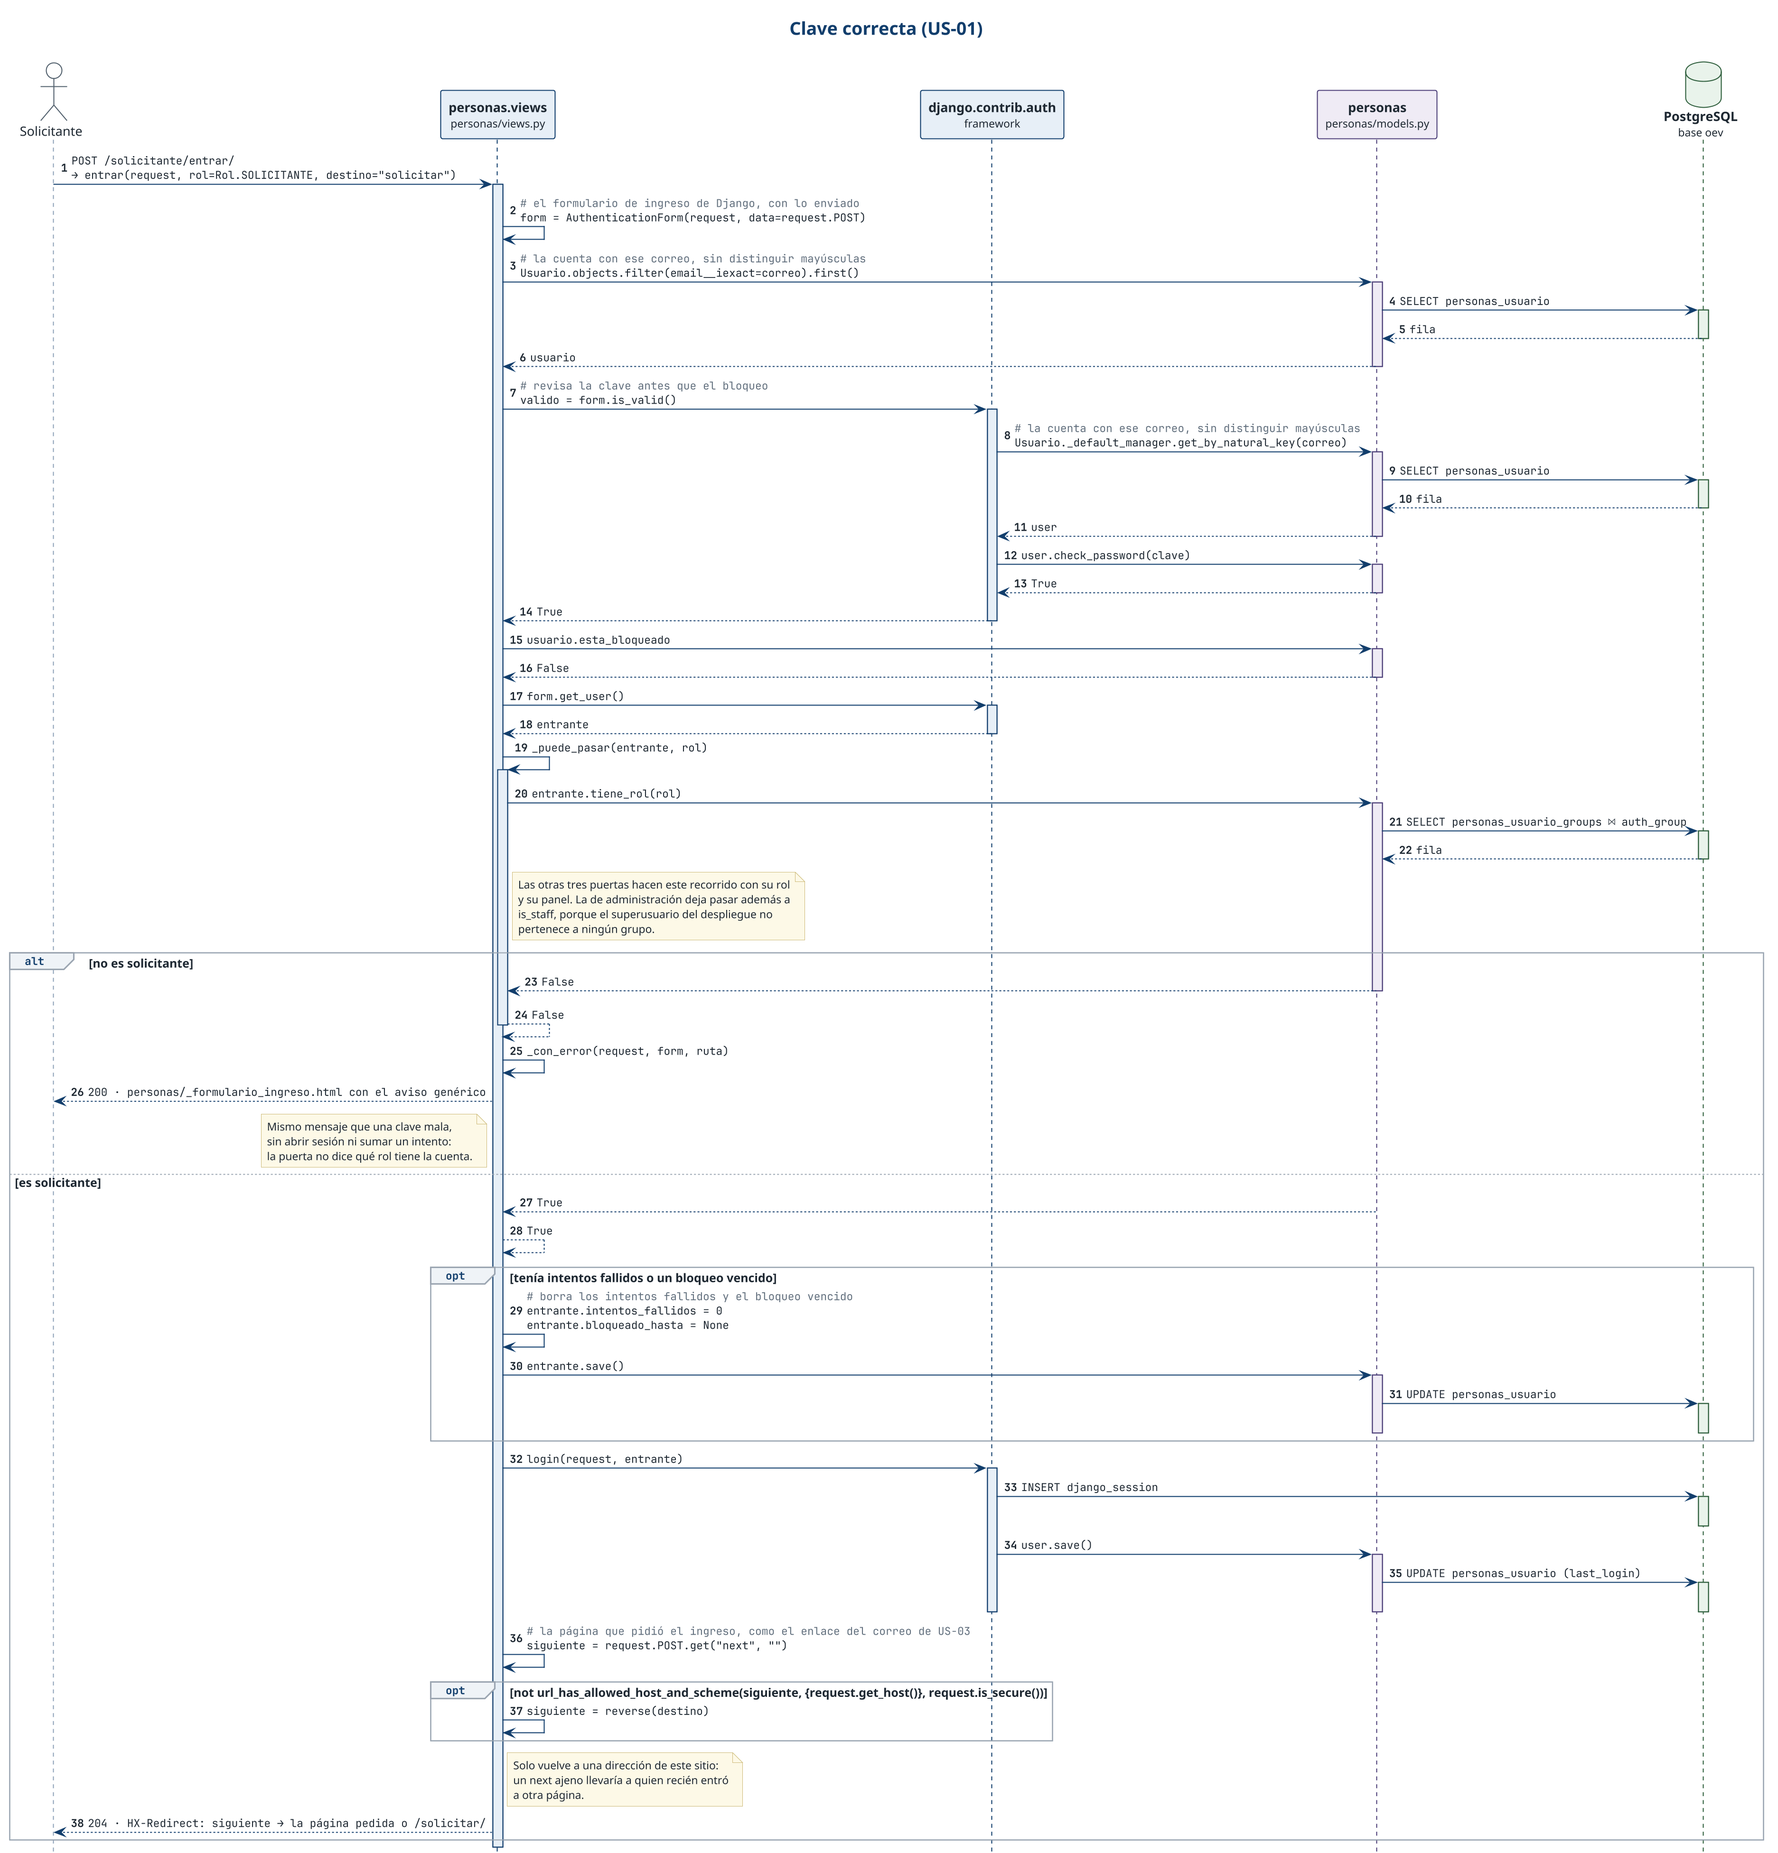
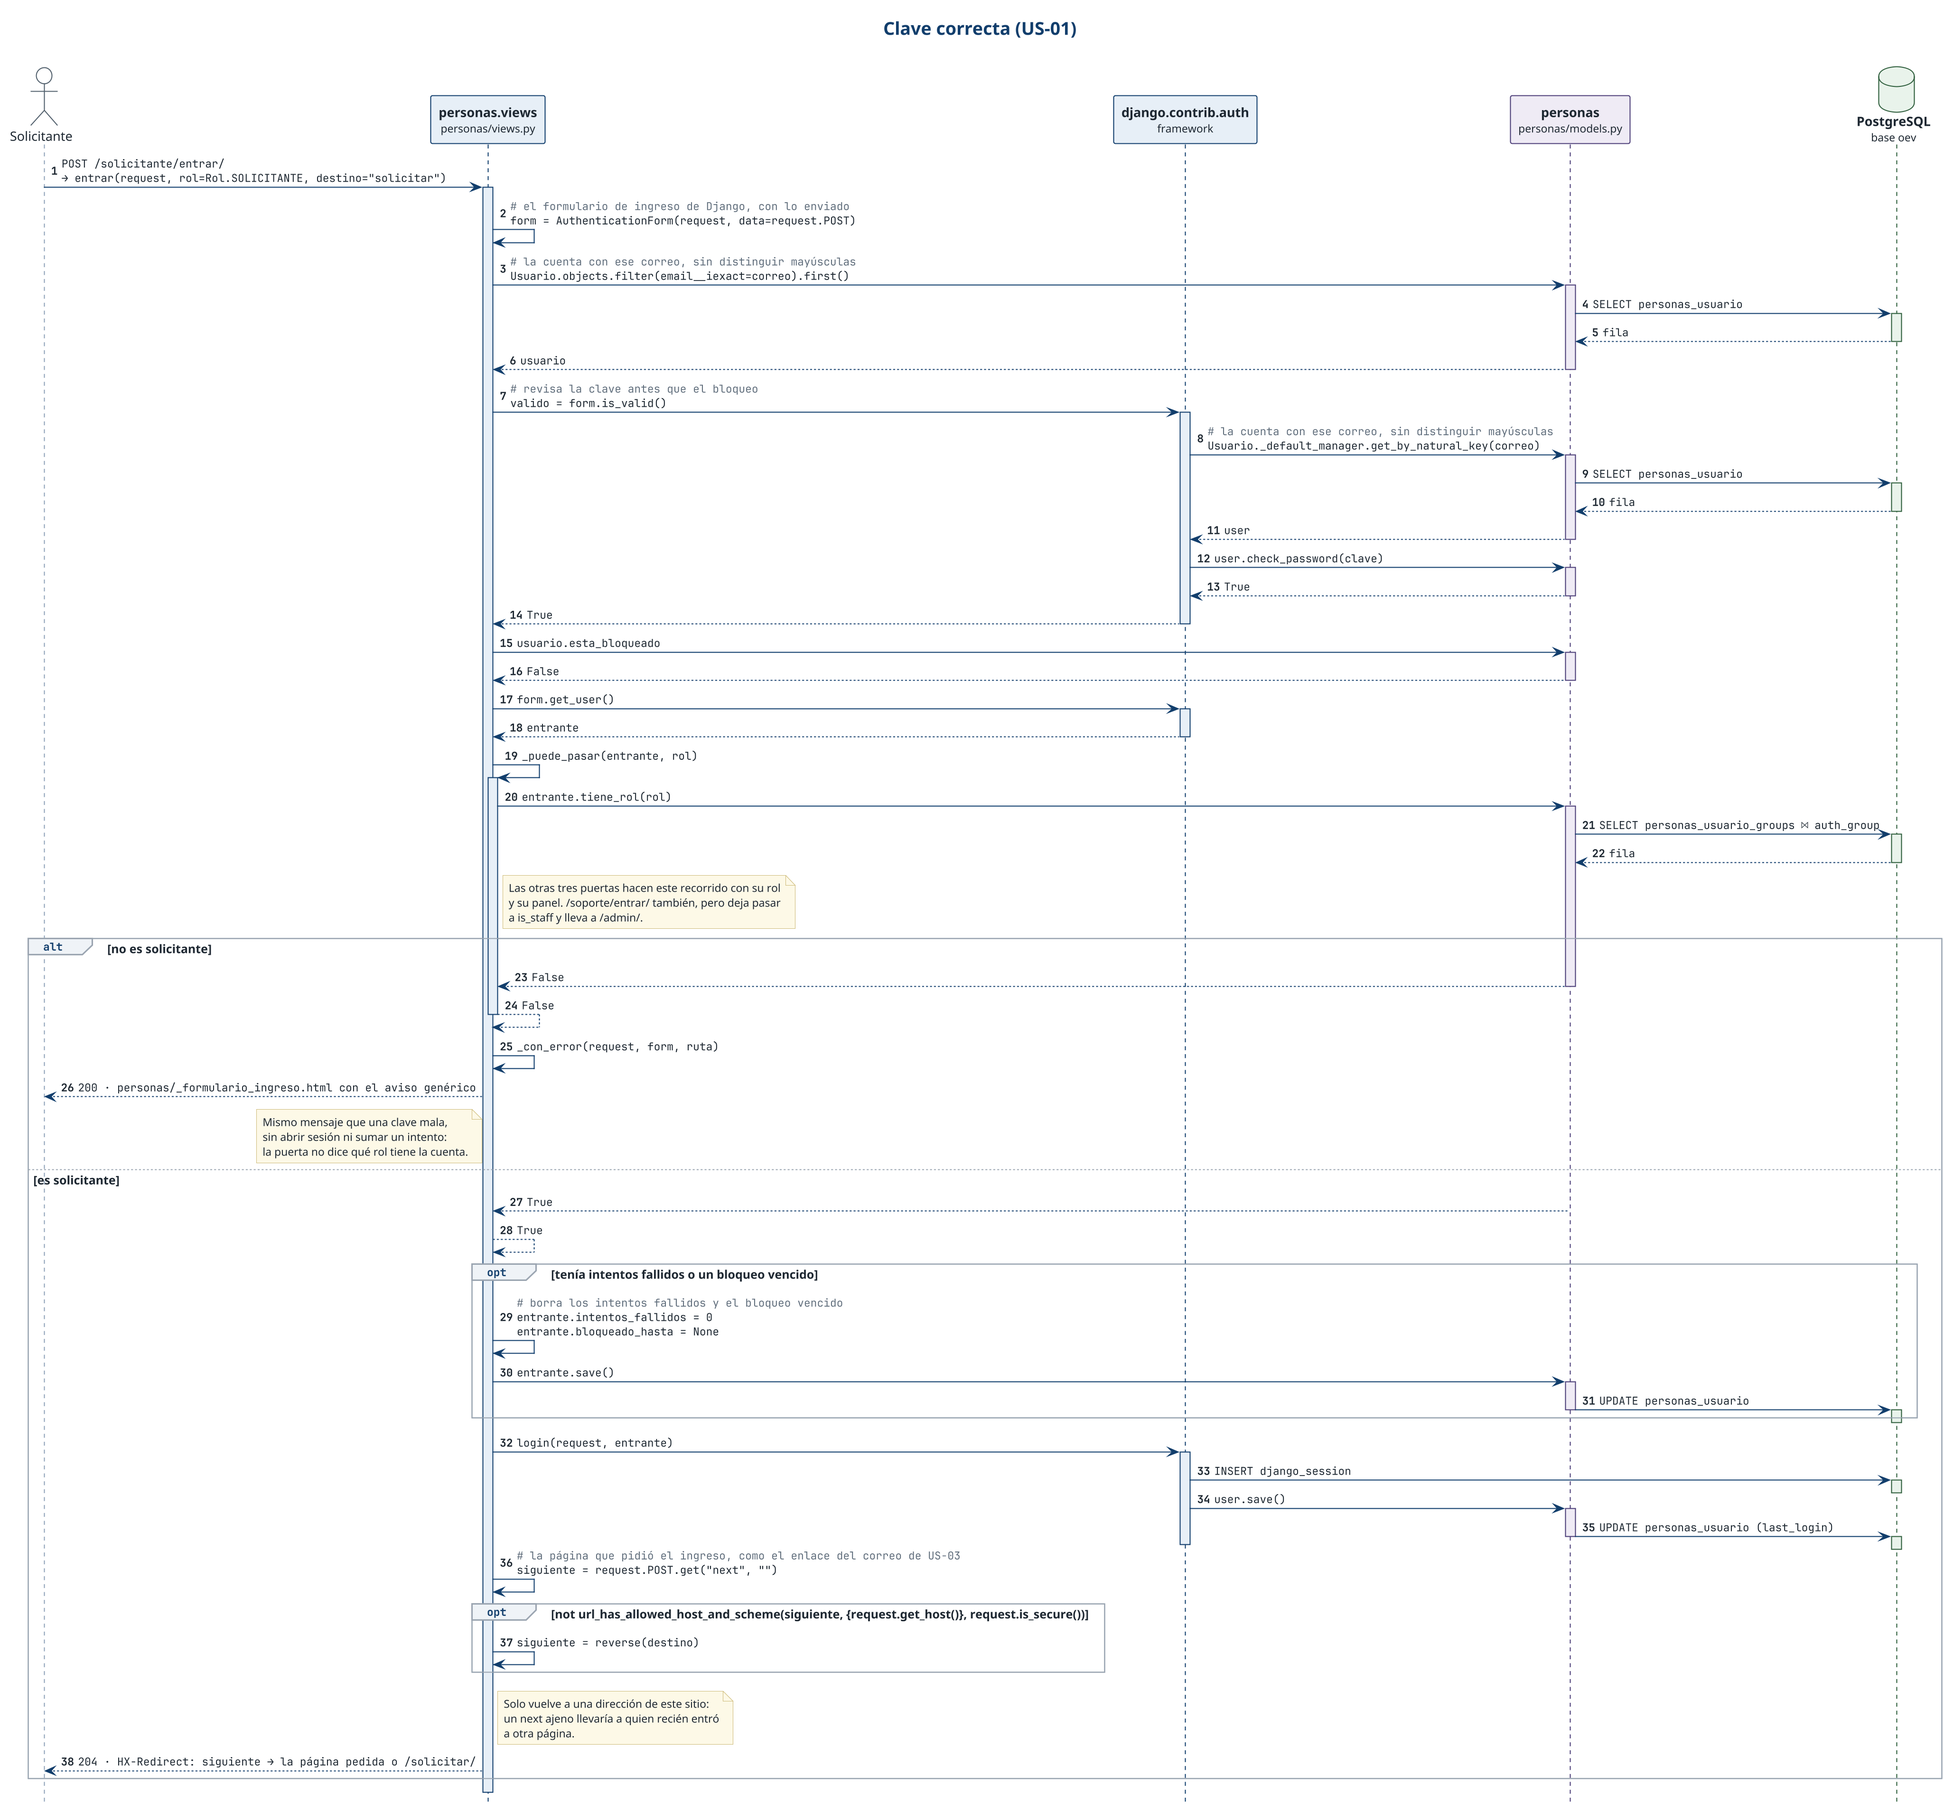
feat(personas): el panel lo abre solo el rol, y crear_administrador (US-08 AC11)

diff --git a/src/personas/management/commands/crear_administrador.py b/src/personas/management/commands/crear_administrador.py
@@ -1,0 +1,56 @@
+import secrets
+
+from django.conf import settings
+from django.contrib.auth.models import Group
+from django.core.exceptions import ValidationError
+from django.core.management.base import BaseCommand, CommandError
+from django.core.validators import validate_email
+from django.db import transaction
+from django.urls import reverse
+
+from personas.models import Rol, Usuario
+from personas.services import enviar_acceso, foto_de_cuenta, registrar_cambios_de_cuenta
+
+
+class Command(BaseCommand):
+    help = (
+        "US-08 AC11: deja la cuenta de soporte de la OEV como superusuario con el rol de "
+        "administrador. Si no existe, la crea y le manda el correo para crear la contraseña. "
+        "Se puede correr más de una vez."
+    )
+
+    def add_arguments(self, parser):
+        parser.add_argument("correo")
+
+    def handle(self, *args, correo, **options):
+        correo = correo.strip().lower()
+        try:
+            validate_email(correo)
+        except ValidationError:
+            raise CommandError(f"«{correo}» no es un correo válido.")
+
+        with transaction.atomic():
+            usuario = Usuario.objects.filter(email__iexact=correo).first()
+            nueva = usuario is None
+            antes = foto_de_cuenta(None if nueva else usuario.pk)
+            if nueva:
+                # Como en la pestaña Usuarios: Django no manda el enlace de /clave/
+                # a una cuenta sin contraseña usable.
+                usuario = Usuario(email=correo)
+                usuario.set_password(secrets.token_urlsafe(32))
+            usuario.is_active = usuario.is_staff = usuario.is_superuser = True
+            usuario.save()
+            usuario.groups.add(Group.objects.get(name=Rol.ADMINISTRADOR))
+            cambio = foto_de_cuenta(usuario.pk) != antes
+            registrar_cambios_de_cuenta(usuario, antes, quien=None)
+
+        if not nueva:
+            estado = "ahora es" if cambio else "ya era"
+            self.stdout.write(f"{correo} {estado} superusuario con el rol de administrador. Su contraseña no cambió.")
+        elif enviar_acceso(usuario):
+            self.stdout.write(f"Cuenta creada: {correo}. Le llegará un correo para crear su contraseña.")
+        else:
+            self.stdout.write(self.style.WARNING(
+                f"Cuenta creada: {correo}, pero el correo no salió. Puede crear su contraseña en "
+                f"{settings.URL_BASE}{reverse('password_reset')}."
+            ))

diff --git a/src/uso/tests/test_historial_sanciones.py b/src/uso/tests/test_historial_sanciones.py
@@ -74,7 +74,9 @@ def beto(informatica):
 
 @pytest.fixture
 def administrador():
-    return Usuario.objects.create_user(email="admin@uach.cl", password="x", is_staff=True)
+    usuario = Usuario.objects.create_user(email="admin@uach.cl", password="x", is_staff=True)
+    usuario.groups.add(Group.objects.get(name=Rol.ADMINISTRADOR))
+    return usuario
 
 
 @pytest.fixture
@@ -213,21 +215,21 @@ def test_quien_no_pide_ni_fue_sancionado_no_aparece(client, administrador, ana):
 
 
 def test_el_numero_de_consultas_es_fijo(client, administrador, informatica, civil, bloque, django_assert_num_queries):
-    """Sesión, usuario, el área del filtro, el COUNT del paginador, Parametros,
-    la página entera (conteos, sanción y áreas como subconsultas) y las
-    opciones del filtro de área. Ni una más por fila."""
+    """Sesión, usuario, su rol, el área del filtro, el COUNT del paginador,
+    Parametros, la página entera (conteos, sanción y áreas como subconsultas) y
+    las opciones del filtro de área. Ni una más por fila."""
     entrar(client, administrador)
     Parametros.cargar()  # la primera vez la crea, y eso no es del listado
     for i in range(3):
         persona = solicitante(f"a{i}@uach.cl", informatica, civil)
         checkout(persona, informatica, date(2026, 10, 1 + i), bloque, noes=["paredes"])
-    with django_assert_num_queries(7):
+    with django_assert_num_queries(8):
         client.get(LISTADO, {"area": informatica.pk})
     for i in range(20):
         persona = solicitante(f"b{i}@uach.cl", informatica)
         Sancion.objects.create(usuario=persona, motivo="x", inicio=HOY, termino=HOY)
         checkout(persona, informatica, date(2026, 9, 1 + i), bloque, noes=["puerta", "basura"])
-    with django_assert_num_queries(7):
+    with django_assert_num_queries(8):
         client.get(LISTADO, {"area": informatica.pk})
 
 

diff --git a/src/oev/urls.py b/src/oev/urls.py
@@ -73,6 +73,15 @@ urlpatterns = [
          "titulo": "Ingreso del personal de apoyo", "puerta": "apoyo", "nombre": "Personal de apoyo"},
         name="login_apoyo",
     ),
+    # US-08 AC11: puerta de la cuenta técnica, que no tiene rol. Lleva a /admin/
+    # con el mismo bloqueo por intentos.
+    path(
+        "soporte/entrar/",
+        views.entrar,
+        {"ruta": "login_soporte", "rol": None, "destino": "admin:index",
+         "titulo": "Ingreso de soporte técnico", "puerta": "gestion", "nombre": "Soporte técnico"},
+        name="login_soporte",
+    ),
     path("apoyo/", uso.bloques, name="panel_apoyo"),
     path("apoyo/checkout/<str:codigo>/", checkout.checkout, name="checkout_apoyo"),
     path("apoyo/checkout/<str:codigo>/editar/", checkout.editar_checkout, name="editar_checkout"),
@@ -99,8 +108,8 @@ urlpatterns = [
     # el nombre son los de US-10, para no romper enlaces.
     path("configuracion/sanciones/", uso.sanciones, name="panel_sanciones"),
     path("configuracion/sanciones/<int:usuario_id>/", uso.sanciones_de, name="sanciones_de"),
-    # El formulario de ingreso del admin no tiene el bloqueo por intentos: se
-    # entra por la puerta de gestión, que acepta `is_staff` y vuelve por `next`.
-    path("admin/login/", RedirectView.as_view(pattern_name="login_gestion", query_string=True)),
+    # El formulario de ingreso del admin no bloquea por intentos. Se entra por la
+    # puerta de soporte, que vuelve por `next`.
+    path("admin/login/", RedirectView.as_view(pattern_name="login_soporte", query_string=True)),
     path("admin/", admin.site.urls),
 ]

diff --git a/src/personas/views.py b/src/personas/views.py
@@ -33,16 +33,17 @@ def destino_tras_login(usuario):
     formulario de US-02.
 
     Los roles ya son grupos de Django (US-08 AC6), así que alguien puede tener
-    varios: el orden de abajo es la prioridad, no una clasificación. `is_staff`
-    sigue contando como administrador porque el superusuario que crea el
-    despliegue no pertenece a ningún grupo.
+    varios: el orden de abajo es la prioridad, no una clasificación. Sin rol,
+    la cuenta técnica (`is_staff`) va a /admin/ (AC11).
     """
-    if usuario.is_staff or usuario.tiene_rol(Rol.ADMINISTRADOR):
+    if usuario.tiene_rol(Rol.ADMINISTRADOR):
         return reverse("panel_bloques")
     if usuario.tiene_rol(Rol.VALIDADOR):
         return reverse("panel_validador")
     if usuario.tiene_rol(Rol.APOYO):
         return reverse("panel_apoyo")
+    if usuario.is_staff:
+        return reverse("admin:index")
     return reverse("solicitar")
 
 
@@ -77,13 +78,9 @@ def _registrar_fallo(usuario):
 
 
 def _puede_pasar(usuario, rol):
-    """Quién cruza esta puerta.
-
-    En la de administración vale también `is_staff`, porque el superusuario del
-    despliegue no pertenece a ningún grupo y quedaría afuera de su propia puerta.
-    """
-    if rol == Rol.ADMINISTRADOR and usuario.is_staff:
-        return True
+    """Quién cruza esta puerta. La de soporte (`rol=None`) deja pasar a `is_staff` (AC11)."""
+    if rol is None:
+        return usuario.is_staff
     return usuario.tiene_rol(rol)
 
 

diff --git a/src/personas/tests/test_sanciones.py b/src/personas/tests/test_sanciones.py
@@ -4,13 +4,14 @@ from unittest import mock
 from zoneinfo import ZoneInfo
 
 import pytest
+from django.contrib.auth.models import Group
 from django.core.exceptions import ValidationError
 from django.db import IntegrityError, transaction
 from django.urls import reverse
 from django.utils import timezone
 
 from personas import services
-from personas.models import Sancion, Usuario
+from personas.models import Rol, Sancion, Usuario
 
 pytestmark = pytest.mark.django_db
 
@@ -137,7 +138,9 @@ def superusuario():
 
 @pytest.fixture
 def administrador():
-    return Usuario.objects.create_user(email="admin@uach.cl", password="x", is_staff=True)
+    usuario = Usuario.objects.create_user(email="admin@uach.cl", password="x", is_staff=True)
+    usuario.groups.add(Group.objects.get(name=Rol.ADMINISTRADOR))
+    return usuario
 
 
 def test_superusuario_crea_sancion_y_queda_quien(client, superusuario, persona, hoy):

diff --git a/src/solicitudes/views.py b/src/solicitudes/views.py
@@ -58,7 +58,7 @@ def es_validador(usuario):
 
 def puede_validar(usuario):
     """Decisión del 04/10: el administrador también valida."""
-    return usuario.is_authenticated and (usuario.is_staff or usuario.tiene_rol(Rol.VALIDADOR))
+    return usuario.is_authenticated and (usuario.es_administrador or usuario.tiene_rol(Rol.VALIDADOR))
 
 
 def _datos_validacion():
@@ -104,7 +104,7 @@ def _envoltorio_validacion(usuario):
     """El administrador ve el historial dentro de su pestaña Validación; el
     validador, con el encabezado de su panel. Con los dos roles manda el de
     administrador, como en destino_tras_login."""
-    if usuario.is_staff:
+    if usuario.es_administrador:
         return {"envoltorio": "panel.html", "pestana": "validacion", "panel": reverse("panel_validacion")}
     return {"envoltorio": "solicitudes/_base_validador.html", "panel": reverse("panel_validador")}
 

diff --git a/src/agenda/tests/test_vista_semanal.py b/src/agenda/tests/test_vista_semanal.py
@@ -4,10 +4,12 @@ from datetime import date
 from unittest import mock
 
 from django.contrib.auth import get_user_model
+from django.contrib.auth.models import Group
 from django.test import TestCase
 from django.urls import reverse
 
 from agenda.models import Bloque, Bloqueo, Dia
+from personas.models import Rol
 
 
 class VistaSemanal(TestCase):
@@ -15,6 +17,7 @@ class VistaSemanal(TestCase):
         admin = get_user_model().objects.create_user(
             email="admin@uach.cl", password="clave-de-prueba", is_staff=True
         )
+        admin.groups.add(Group.objects.get(name=Rol.ADMINISTRADOR))
         self.client.force_login(admin)
         # La migración ya carga la jornada por defecto: se usa ese bloque.
         self.bloque = Bloque.objects.filter(dia=Dia.MIERCOLES, activo=True).order_by("inicio").first()

diff --git a/src/uso/checkout/tests/test_historial.py b/src/uso/checkout/tests/test_historial.py
@@ -26,6 +26,7 @@ class HistorialCheckoutTests(TestCase):
         configuracion.enable()
         self.addCleanup(configuracion.disable)
         self.admin = Usuario.objects.create_user(email="admin.historial@example.com", is_staff=True)
+        self.admin.groups.add(Group.objects.get(name=Rol.ADMINISTRADOR))
         self.apoyo = Usuario.objects.create_user(email="apoyo.historial@example.com")
         self.apoyo.groups.add(Group.objects.get(name=Rol.APOYO))
         self.persona = Usuario.objects.create_user(email="persona.historial@example.com", first_name="María", last_name="Pérez")

diff --git a/src/uso/checkout/tests/test_checkout.py b/src/uso/checkout/tests/test_checkout.py
@@ -31,6 +31,7 @@ class CheckoutTests(TestCase):
         self.settings_override.enable()
         self.addCleanup(self.settings_override.disable)
         self.admin = Usuario.objects.create_user(email="admin@example.com", is_staff=True)
+        self.admin.groups.add(Group.objects.get(name=Rol.ADMINISTRADOR))
         self.apoyo = Usuario.objects.create_user(email="apoyo@example.com")
         self.apoyo.groups.add(Group.objects.get(name=Rol.APOYO))
         self.persona = Usuario.objects.create_user(email="persona@example.com")

diff --git a/src/personas/models.py b/src/personas/models.py
@@ -159,9 +159,8 @@ class Usuario(AbstractUser):
 
     @property
     def es_administrador(self):
-        """Quién abre el panel. `is_staff` cuenta mientras la cuenta técnica no
-        tenga el rol (AC11)."""
-        return self.is_active and (self.is_staff or self.tiene_rol(Rol.ADMINISTRADOR))
+        """Solo el rol abre el panel. La cuenta técnica, sin rol, va a /admin/ (AC11)."""
+        return self.is_active and self.tiene_rol(Rol.ADMINISTRADOR)
 
     @property
     def esta_bloqueado(self):

diff --git a/src/configuracion/tests/test_bitacora.py b/src/configuracion/tests/test_bitacora.py
@@ -1,6 +1,7 @@
 import pytest
+from django.contrib.auth.models import Group
 from django.urls import reverse
-from personas.models import Usuario
+from personas.models import Rol, Usuario
 from configuracion.models import Parametros, CambioParametro
 
 pytestmark = pytest.mark.django_db
@@ -15,6 +16,7 @@ def admin_user():
         password="ClaveAdmin123", 
         is_staff=True
     )
+    user.groups.add(Group.objects.get(name=Rol.ADMINISTRADOR))
     return user
 
 @pytest.fixture

diff --git a/src/solicitudes/tests/test_encabezado.py b/src/solicitudes/tests/test_encabezado.py
@@ -15,6 +15,7 @@ class EncabezadoPorPantallaTestCase(TestCase):
 
     def test_configuracion_trae_solo_su_techo(self):
         admin = Usuario.objects.create_user(email="admin@uach.cl", password="x", is_staff=True)
+        admin.groups.add(Group.objects.get(name=Rol.ADMINISTRADOR))
         self.client.force_login(admin)
         response = self.client.get(reverse("panel_bloques"))
         self.assertEqual(response.status_code, 200)
